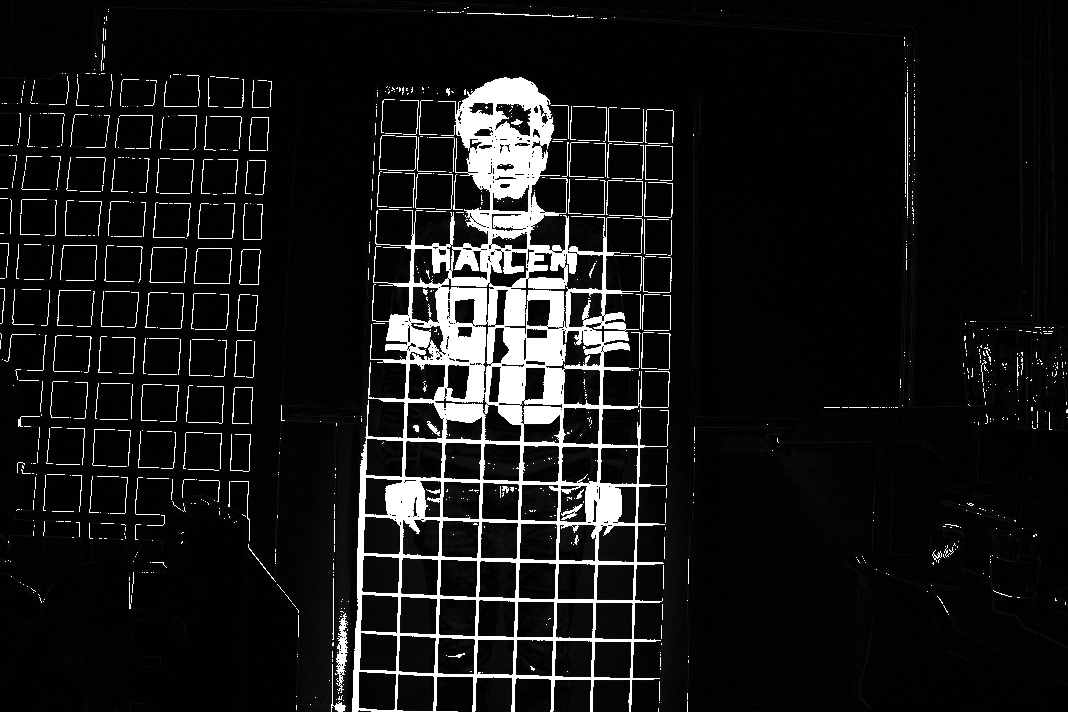
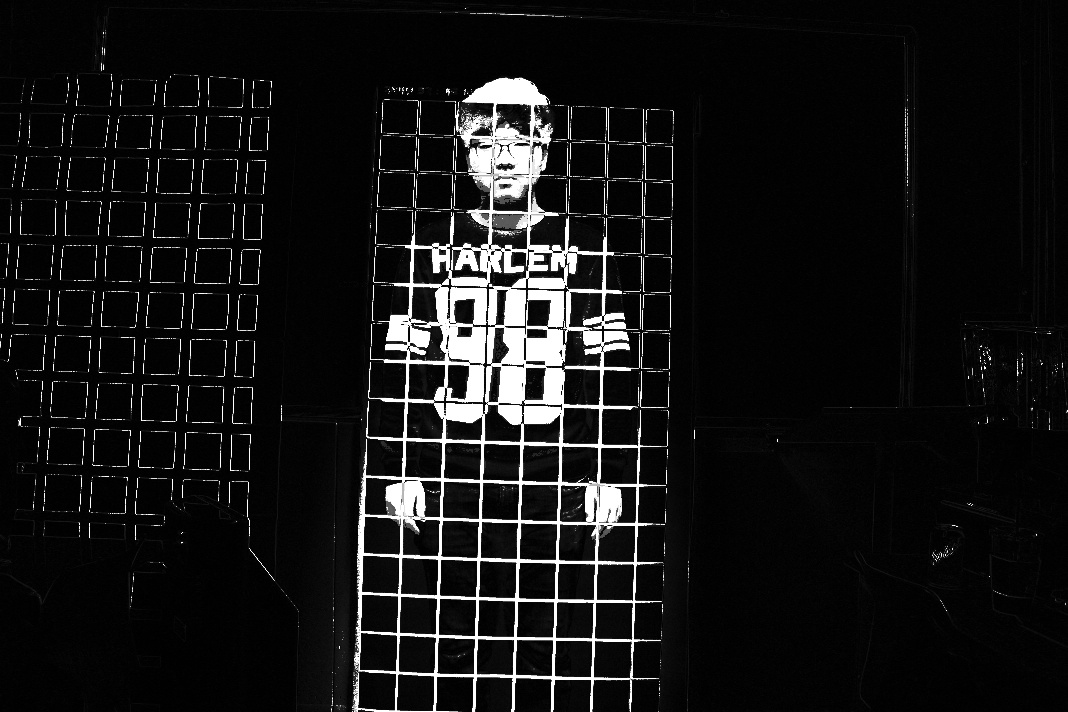
물체 인식 대충 완성
색상까지 적용

diff --git a/ObjectDetect.py b/ObjectDetect.py
@@ -3,22 +3,34 @@ import unittest2 as unittest
 from matplotlib import pyplot as plt
 import ColorDetect
 
-def DetectObjectFromImage(beforeImage, afterImage):
-    beforeGrayImage = cv2.imread(beforeImage, 0)
+def DetectObjectFromImage(testcase):
+    beforeImage = cv2.imread(testcase + "before.jpg")
     # beforeGrayImage = cv2.cvtColor(beforeImage, cv2.COLOR_BGR2GRAY)
 
-    afterGrayImage = cv2.imread(afterImage, 0)
+    afterImage = cv2.imread(testcase + "after.jpg")
     # afterGrayImage = cv2.cvtColor(afterImage, cv2.COLOR_BGR2GRAY)
 
-    mask = ColorDetect.ColorDetectFromImage(beforeImage)
+    mask = ColorDetect.ColorDetectFromImage(testcase + "before.jpg")
 
     # plt.imshow(afterGrayImage)
 
-    differenceBetweenLoadedImages = cv2.absdiff(beforeGrayImage, afterGrayImage)
+    differenceBetweenLoadedImages = cv2.absdiff(beforeImage, afterImage)
 
-    differenceBetweenLoadedImages[differenceBetweenLoadedImages > 30] = 255
+    diff = afterImage - beforeImage
 
-    cv2.imwrite("Resources/testcase5/result_absdiff.jpg", differenceBetweenLoadedImages)
+    differenceBetweenLoadedImages[differenceBetweenLoadedImages > 40] = 255
+
+    differenceBetweenLoadedImages = cv2.cvtColor(differenceBetweenLoadedImages, cv2.COLOR_BGR2GRAY)
+
+
+
+    last_result = differenceBetweenLoadedImages - mask
+
+    cv2.imwrite((testcase + "result_absdiff.jpg"), differenceBetweenLoadedImages)
+
+    cv2.imwrite((testcase + "result_mask.jpg"), mask)
+
+    cv2.imwrite((testcase + "result_diff2.jpg"), last_result)
 
     blurKernel = cv2.GaussianBlur(differenceBetweenLoadedImages, (3, 3), 0)
 
@@ -38,16 +50,16 @@ def DetectObjectFromImage(beforeImage, afterImage):
             maxContoursArea = calculatedContourArea
             maxContoursIndex = contoursIndex
 
-    cv2.drawContours(beforeGrayImage, contours, 0, 255, 3)
+    cv2.drawContours(beforeImage, contours, 0, 255, 3)
 
     (positionX, positionY, width, height) = cv2.boundingRect(maxContoursIndex)
 
-    cv2.rectangle(beforeGrayImage, (positionX, positionY), (positionX + width, positionY + height), 255, 2)
+    cv2.rectangle(beforeImage, (positionX, positionY), (positionX + width, positionY + height), 255, 2)
 
-    cv2.imwrite("Resources/testcase5/result_canny.jpg", imageEdgesDetected)
     # cv2.imwrite("Resources/testcase2/result.jpg", beforeGrayImage)
 
 def Detecting():
+    """
     beforeGrayImage = cv2.imread('Resources/testcase5/before.jpg', 0)
     #beforeGrayImage = cv2.cvtColor(beforeImage, cv2.COLOR_BGR2GRAY)
 
@@ -88,3 +100,4 @@ def Detecting():
 
     cv2.imwrite("Resources/testcase5/result_canny.jpg", imageEdgesDetected)
     #cv2.imwrite("Resources/testcase2/result.jpg", beforeGrayImage)
+    """

diff --git a/ProgramMain.py b/ProgramMain.py
@@ -21,17 +21,17 @@ class ProjectCalculateLength(unittest.TestCase):
 
     def BeforeImageLoadTest(self):
         global beforeImage, blankImage
-        beforeImage = "Resources/testcase5/before.png"
+        beforeImage = "Resources/testcase4/before.png"
         self.assertNotEqual(beforeImage, blankImage)
 
     def AfterImageLoadTest(self):
         global afterImage, blankImage
-        afterImage = "Resources/testcase5/after.png"
+        afterImage = "Resources/testcase4/after.png"
         self.assertNotEqual(afterImage, blankImage)
 
     def ObjectDetectFromImage(self):
         global beforeImage, afterImage, blankImage
-        objectDetect.DetectObjectFromImage(beforeImage, afterImage)
+        objectDetect.DetectObjectFromImage("Resources/testcase7/")
 
 testSuite = unittest.TestSuite()
 testSuite.addTest(ProjectSettingTest('TestVersionOfOpenCV'))

diff --git a/ColorDetect.py b/ColorDetect.py
@@ -4,15 +4,13 @@ import cv2
 import numpy as np
 
 def ColorDetectFromImage(arg1):
-    arg2 = "data/out_ex_detecting_color.png"
-
     origin_image = cv2.imread(arg1)
 
     # Convert BGR to HSV
     hsv = cv2.cvtColor(origin_image, cv2.COLOR_BGR2HSV)
 
     # define range of blue color in HSV
-    lower_blue = np.array([  0,  0,180], dtype=np.uint8)
+    lower_blue = np.array([  0,  0,100], dtype=np.uint8)
     upper_blue = np.array([255,255,255], dtype=np.uint8)
 
     # Threshold the HSV image to get only blue colors
@@ -21,6 +19,6 @@ def ColorDetectFromImage(arg1):
     # Bitwise-AND mask and original image
     res = cv2.bitwise_and(origin_image, origin_image, mask=mask)
 
-    cv2.imwrite(arg2,  mask)
+    #cv2.imwrite(arg2,  mask)
 
     return mask
